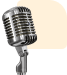
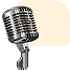
Homepage background done

diff --git a/src/components/Category/index.tsx b/src/components/Category/index.tsx
@@ -12,21 +12,33 @@ const Category = () => {
       <h2 className="Category__SectionHeading">We Offer Best Services</h2>
       <div className="Category__Services">
         <div className="Category__Card">
-          <img src={card1} alt="Card Images" />
+          <img
+            className="Category__Card__Image"
+            src={card1}
+            alt="Card Images"
+          />
           <h1 className="Category__Card__Title">Calculated Weather</h1>
           <p className="Category__Card__Description">
             Built Wicket longer admire do barton vanity itself do in it.
           </p>
         </div>
         <div className="Category__Card">
-          <img src={card2} alt="Card Images" />
+          <img
+            className="Category__Card__Image"
+            src={card2}
+            alt="Card Images"
+          />
           <h1 className="Category__Card__Title">Best Flights</h1>
           <p className="Category__Card__Description">
             Engrossed listening. Park gate sell they west hard for the.
           </p>
         </div>
         <div className="Category__Card">
-          <img src={card3} alt="Card Images" />
+          <img
+            className="Category__Card__Image"
+            src={card3}
+            alt="Card Images"
+          />
           <h1 className="Category__Card__Title">Local Events</h1>
           <p className="Category__Card__Description">
             Barton vanity itself do in it. Preferd to men it engrossed
@@ -34,7 +46,11 @@ const Category = () => {
           </p>
         </div>
         <div className="Category__Card">
-          <img src={card4} alt="Card Images" />
+          <img
+            className="Category__Card__Image"
+            src={card4}
+            alt="Card Images"
+          />
           <h1 className="Category__Card__Title">Customization</h1>
           <p className="Category__Card__Description">
             We deliver outsourced aviation services for military customers

diff --git a/src/components/Category/style.scss b/src/components/Category/style.scss
@@ -29,23 +29,34 @@
     color: var(--SectionHeadingFontColor);
     line-height: var(--SectionHeadingLineHeight);
     text-align: center;
-    margin-bottom: 108px;
   }
   &__Services {
+    margin-top: 108px;
+    margin-left: 14px;
     display: grid;
     grid-template-columns: 1fr 1fr 1fr 1fr;
     margin-left: 14px;
+    gap: 118px;
+    justify-content: center;
+    align-items: center;
   }
   &__Card {
-    // margin-top: 108px;
     display: flex;
     flex-direction: column;
     justify-content: center;
     align-items: center;
-    width: 181px;
+    width: 190px;
     height: 229px;
 
+    &__Image {
+      margin: 0;
+      height: 90px;
+      width: 90px;
+    }
+
     &__Title {
+      margin: 0;
+      margin-top: 30px;
       font-family: var(--CardTitleFontFamily);
       font-size: var(--CardTitleFontSize);
       font-weight: var(--CardTitleFontWeight);
@@ -56,6 +67,8 @@
     }
 
     &__Description {
+      margin: 0;
+      margin-top: 15px;
       font-family: var(--CardDetailsFontFamily);
       font-size: var(--CardDetailsFontSize);
       font-weight: var(--CardDetailsFontWeight);
@@ -64,5 +77,12 @@
       line-height: var(--CardDetailsLineHeight);
       text-align: var(--CardTextAlign);
     }
+  }
+  &__Card:hover {
+    // width: 267px;
+    // height: 314px;
+    background: #ffffff;
+    box-shadow: 0px 1.85185px 3.14815px rgba(0, 0, 0, 0.00481481);
+    border-radius: 36px;
   }
 }

diff --git a/src/components/Category/style.css b/src/components/Category/style.css
@@ -29,22 +29,33 @@
   color: var(--SectionHeadingFontColor);
   line-height: var(--SectionHeadingLineHeight);
   text-align: center;
-  margin-bottom: 108px;
 }
 .Category__Services {
+  margin-top: 108px;
+  margin-left: 14px;
   display: grid;
   grid-template-columns: 1fr 1fr 1fr 1fr;
   margin-left: 14px;
+  gap: 118px;
+  justify-content: center;
+  align-items: center;
 }
 .Category__Card {
   display: flex;
   flex-direction: column;
   justify-content: center;
   align-items: center;
-  width: 181px;
+  width: 190px;
   height: 229px;
 }
+.Category__Card__Image {
+  margin: 0;
+  height: 90px;
+  width: 90px;
+}
 .Category__Card__Title {
+  margin: 0;
+  margin-top: 30px;
   font-family: var(--CardTitleFontFamily);
   font-size: var(--CardTitleFontSize);
   font-weight: var(--CardTitleFontWeight);
@@ -54,6 +65,8 @@
   text-align: var(--CardTextAlign);
 }
 .Category__Card__Description {
+  margin: 0;
+  margin-top: 15px;
   font-family: var(--CardDetailsFontFamily);
   font-size: var(--CardDetailsFontSize);
   font-weight: var(--CardDetailsFontWeight);
@@ -61,4 +74,9 @@
   color: var(--CardDetailsFontColor);
   line-height: var(--CardDetailsLineHeight);
   text-align: var(--CardTextAlign);
+}
+.Category__Card:hover {
+  background: #ffffff;
+  box-shadow: 0px 1.85185px 3.14815px rgba(0, 0, 0, 0.00481481);
+  border-radius: 36px;
 }/*# sourceMappingURL=style.css.map */

diff --git a/src/components/HeroContent/index.tsx b/src/components/HeroContent/index.tsx
@@ -2,6 +2,7 @@ import React from "react";
 import "./style.css";
 import Traveller from "../../Assets/images/Banner Image.png";
 import playButton from "../../Assets/images/Play button.png";
+import Underline from "../../Assets/images/Underline.png";
 
 const HeroContent = () => {
   return (
@@ -11,10 +12,10 @@ const HeroContent = () => {
           Best Destinations around the world
         </h3>
         <h1 className="HeroContent__LeftSide__Heading">
-          Travel,{" "}
+          Travel, enjoy
           <span className="HeroContent__LeftSide__Heading__Underline">
-            enjoy{" "}
-          </span>
+            <img src={Underline} alt="Underline" />{" "}
+          </span>{" "}
           and live a new and full life
         </h1>
         <p className="HeroContent__LeftSide__Description">

diff --git a/src/components/HeroContent/style.scss b/src/components/HeroContent/style.scss
@@ -32,9 +32,13 @@
       letter-spacing: -0.04em;
       font-weight: 700;
       &__Underline {
-        background: url("../../Assets/images/Underline.png");
-        background-repeat: no-repeat;
-        background-position-y: 86%;
+        // background: url("../../Assets/images/Underline.png");
+        // background-repeat: no-repeat;
+        // background-position-y: 86%;
+        position: absolute;
+        margin-top: 12px;
+        margin-left: -250px;
+        z-index: -1;
       }
     }
     &__Description {

diff --git a/src/pages/Homepage/index.tsx b/src/pages/Homepage/index.tsx
@@ -8,9 +8,8 @@ import Category from "../../components/Category";
 const Homepage = () => {
   return (
     <div className="Homepage__Wrapper">
-      {/* <div>
-        <img src={Banner} alt="Homepage Banner" />
-      </div> */}
+      <img className="Homepage__Banner" src={Banner} alt="Homepage Banner" />
+
       <Navbar />
       <HeroContent />
       <Category />

diff --git a/src/components/HeroContent/style.css b/src/components/HeroContent/style.css
@@ -35,9 +35,10 @@
   font-weight: 700;
 }
 .HeroContent__LeftSide__Heading__Underline {
-  background: url("../../Assets/images/Underline.png");
-  background-repeat: no-repeat;
-  background-position-y: 86%;
+  position: absolute;
+  margin-top: 12px;
+  margin-left: -250px;
+  z-index: -1;
 }
 .HeroContent__LeftSide__Description {
   margin: 30px 0 34px 0;

diff --git a/src/pages/Homepage/style.css b/src/pages/Homepage/style.css
@@ -24,4 +24,11 @@
 
 .Homepage__Wrapper {
   padding: 0 9.722%;
+}
+
+.Homepage__Banner {
+  position: absolute;
+  top: 0;
+  right: 0;
+  z-index: -1;
 }/*# sourceMappingURL=style.css.map */

diff --git a/src/pages/Homepage/style.scss b/src/pages/Homepage/style.scss
@@ -30,3 +30,10 @@
   // margin: 10px 9.722%;
   padding: 0 9.722%;
 }
+
+.Homepage__Banner {
+  position: absolute;
+  top: 0;
+  right: 0;
+  z-index: -1;
+}
